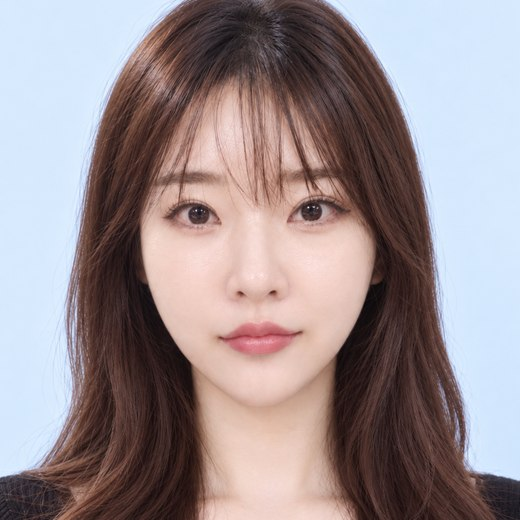
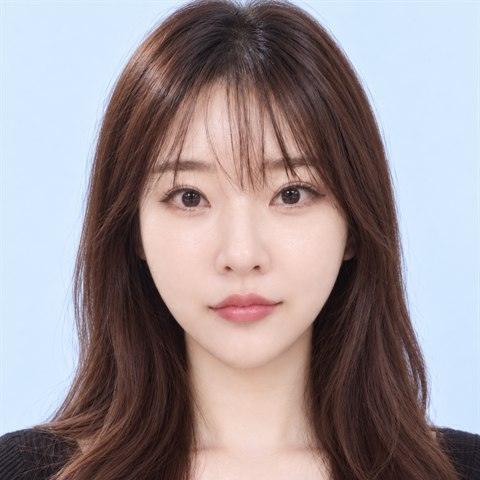
Hero 프로필 사진 크기 축소 및 여백 추가
- 사진 크기 PC 260px → 200px, 모바일 200px → 160px
- 원본 폭 전체로 다시 잘라 얼굴 주변 여유 확보
- 사진과 핑크 테두리 사이에 흰 여백 링 추가
- 말풍선 위치를 사진 바깥 px 기준으로 조정

diff --git a/src/components/landing/hero-section.jsx b/src/components/landing/hero-section.jsx
@@ -19,9 +19,9 @@ const TECH_TAGS = ['React', 'JavaScript', 'MUI', 'Supabase'];
 
 /** 프로필 주변에 떠 있는 카카오톡 스타일 말풍선 */
 const FLOATING_BUBBLES = [
-  { id: 'hello', text: '반가워요! 👋', position: { top: '4%', left: { xs: '-22%', md: '-20%' } }, delay: '0s' },
-  { id: 'study', text: '오늘도 공부 중 📚', position: { top: '38%', right: { xs: '-36%', md: '-22%' } }, delay: '0.8s' },
-  { id: 'guestbook', text: '방명록 남겨주세요 💌', position: { bottom: '0%', left: { xs: '-18%', md: '-14%' } }, delay: '1.6s' },
+  { id: 'hello', text: '반가워요! 👋', position: { top: -8, left: { xs: -72, md: -84 } }, delay: '0s' },
+  { id: 'study', text: '오늘도 공부 중 📚', position: { top: '44%', right: { xs: -104, md: -84 } }, delay: '0.8s' },
+  { id: 'guestbook', text: '방명록 남겨주세요 💌', position: { bottom: -12, left: { xs: -80, md: -96 } }, delay: '1.6s' },
 ];
 
 /** 같은 페이지의 섹션으로 부드럽게 스크롤 (HashRouter 라서 #앵커 링크 대신 사용) */
@@ -188,30 +188,40 @@ function HeroSection({ id = 'hero', contactId = 'contact' }) {
           order: { xs: 1, md: 2 },
           position: 'relative',
           justifySelf: 'center',
-          width: { xs: 200, md: 260 },
-          height: { xs: 200, md: 260 },
+          width: { xs: 160, md: 200 },
+          height: { xs: 160, md: 200 },
         }}
       >
+        { /* 핑크 테두리 + 흰 여백 링 안에 사진을 둔다 */ }
         <Box
-          component="img"
-          src={ PROFILE.photo }
-          alt={ `${PROFILE.name} 프로필 사진` }
-          width={ 260 }
-          height={ 260 }
           sx={{
-            display: 'block',
             width: '100%',
             height: '100%',
-            objectFit: 'cover',
-            objectPosition: 'center top',
+            p: { xs: 1, md: 1.25 },
             borderRadius: '50%',
             bgcolor: 'background.paper',
-            border: 6,
+            border: 4,
             borderColor: 'primary.border',
             boxShadow: '0 12px 32px rgba(214, 58, 122, 0.18)',
             animation: 'heroFloat 4s ease-in-out infinite',
           }}
-        />
+        >
+          <Box
+            component="img"
+            src={ PROFILE.photo }
+            alt={ `${PROFILE.name} 프로필 사진` }
+            width={ 200 }
+            height={ 200 }
+            sx={{
+              display: 'block',
+              width: '100%',
+              height: '100%',
+              objectFit: 'cover',
+              objectPosition: 'center top',
+              borderRadius: '50%',
+            }}
+          />
+        </Box>
 
         { FLOATING_BUBBLES.map((bubble) => (
           <Box
